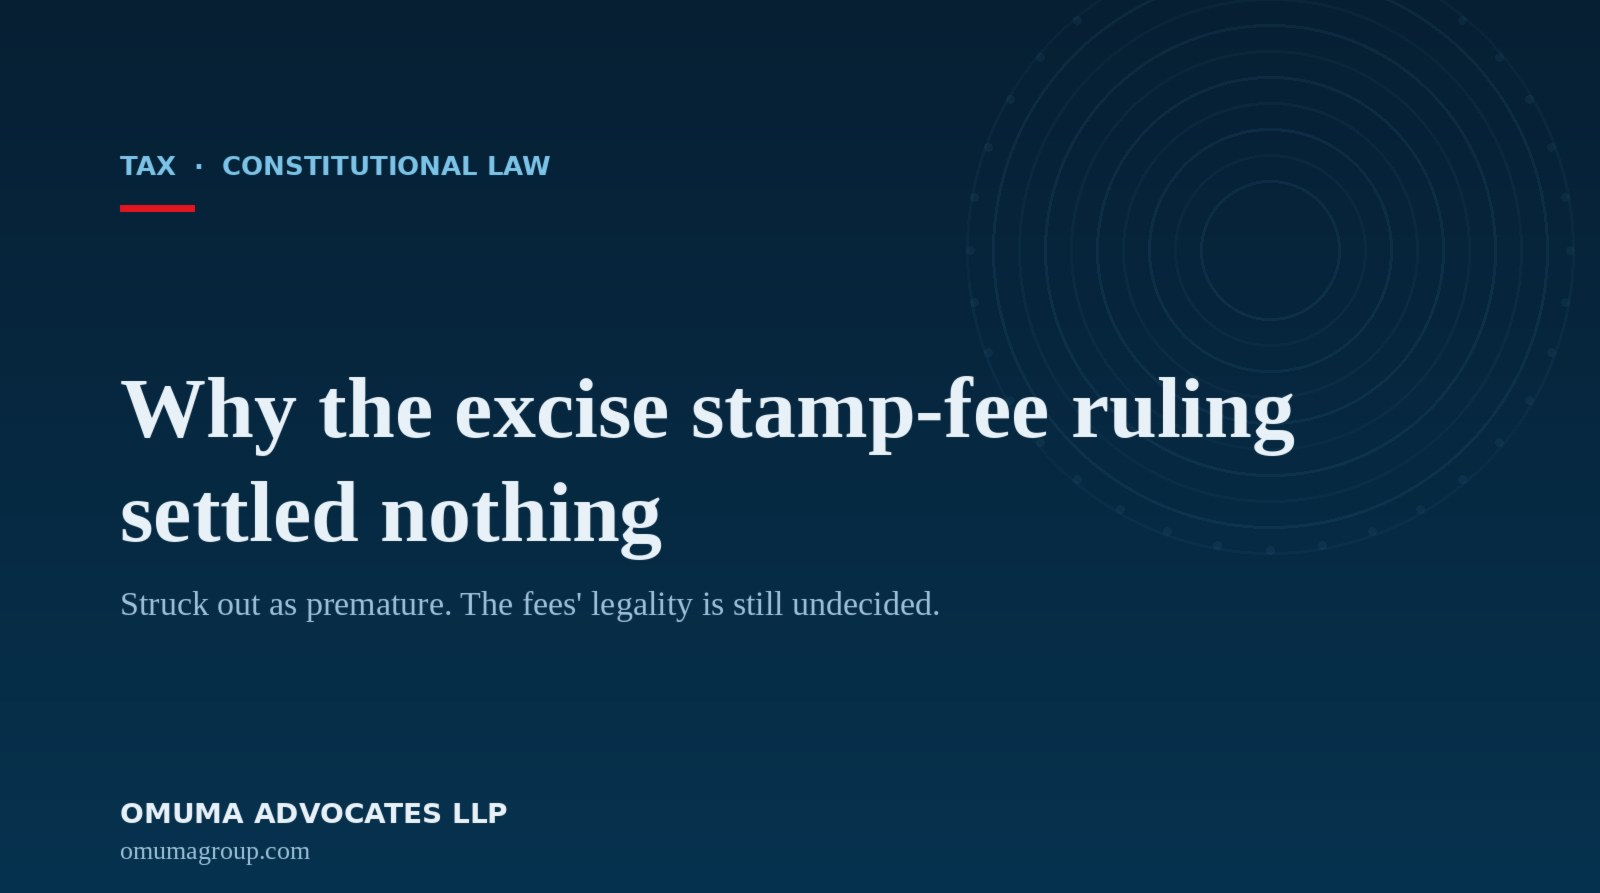
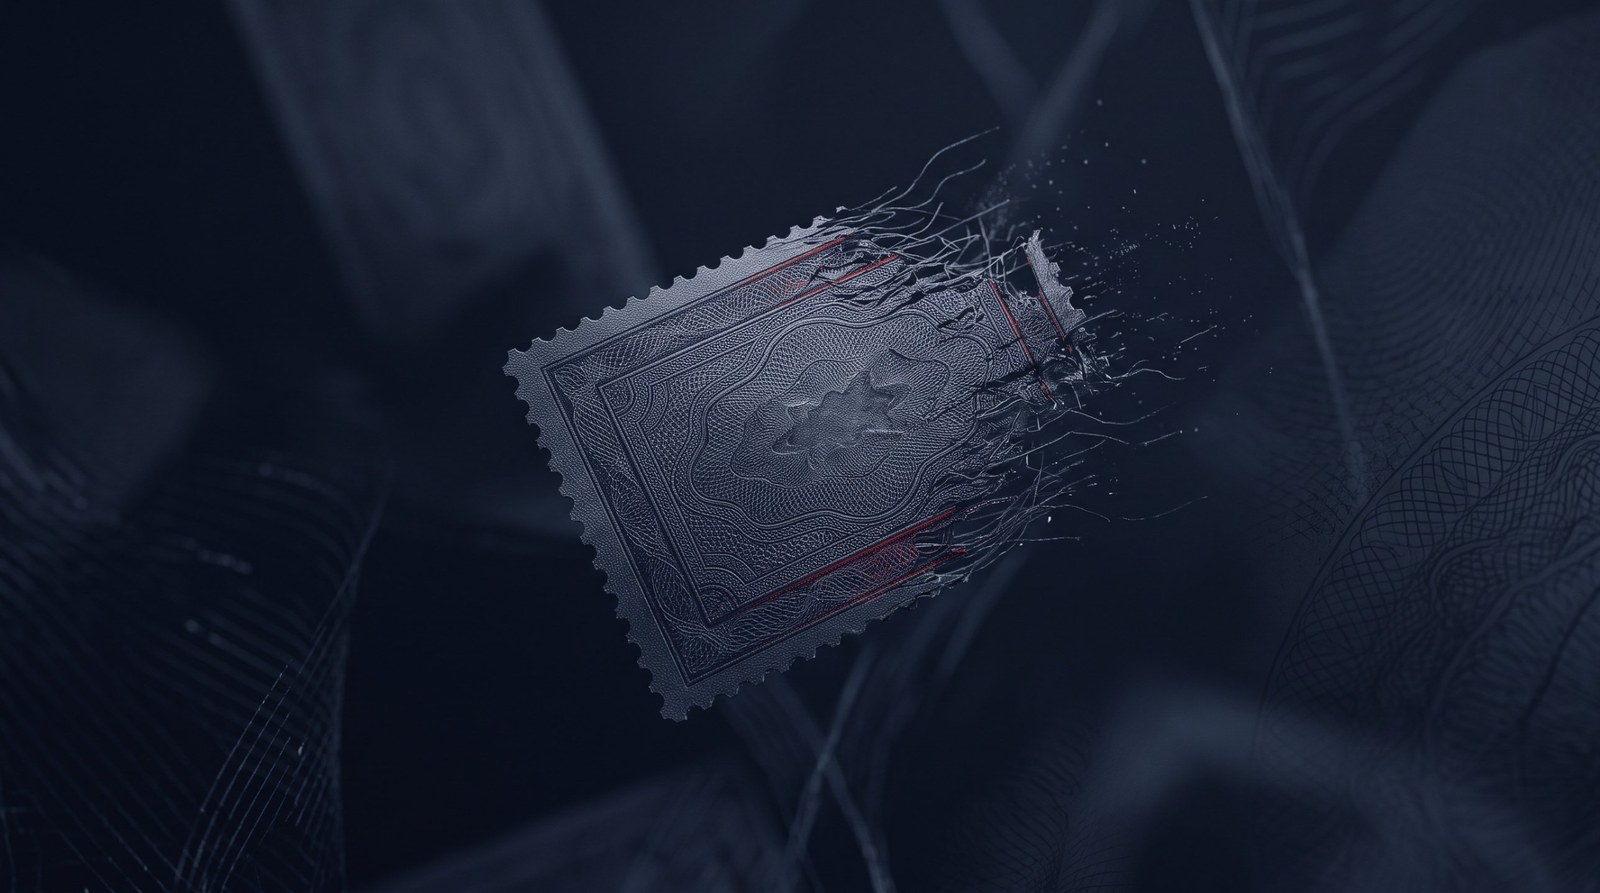
Set the final excise stamp-fee article hero graphic
Replaces the placeholder with Mark's Gemini image (a security revenue stamp
dissolving into fine guilloche lines on navy, echoing the article's point that
the ruling settled nothing), sized to 1600x893. Updates the hero and share
image alt text to describe the actual image.

Claude-Session: https://claude.ai/code/session_012CZkWenwpeeCJXZkaf6qQv

diff --git a/article-excise-stamp-fee-ruling.html b/article-excise-stamp-fee-ruling.html
@@ -15,7 +15,7 @@
 <meta property="og:image" content="https://omumagroup.com/assets/article-excise-stamp-fee-ruling.jpg">
 <meta property="og:image:width" content="1600">
 <meta property="og:image:height" content="893">
-<meta property="og:image:alt" content="Omuma Advocates LLP, a Nairobi law firm">
+<meta property="og:image:alt" content="A security revenue stamp dissolving into fine guilloche lines on a navy field">
 <meta property="article:published_time" content="2026-11-01">
 <meta property="article:modified_time" content="2026-11-01">
 <meta property="article:publisher" content="https://omumagroup.com/">
@@ -127,7 +127,7 @@
   <section class="section">
     <div class="container">
       <article class="article">
-        <figure class="article-hero"><img src="assets/article-excise-stamp-fee-ruling.jpg" alt="Excise duty stamps on bottles beside a gavel and a copy of the Kenya Gazette" width="1600" height="893"></figure>
+        <figure class="article-hero"><img src="assets/article-excise-stamp-fee-ruling.jpg" alt="A security revenue stamp dissolving into fine guilloche lines on a navy field" width="1600" height="893"></figure>
         <p class="meta"><a href="news.html" style="color:inherit;text-decoration:none">News &amp; Events</a> &middot; Tax &middot; Constitutional law &middot; 1 November 2026</p>
         <h1>Why the excise stamp-fee ruling settled nothing</h1>
         <p class="standfirst">The High Court sent the Law Society's challenge back for coming too early. Whether the higher excise stamp fees are lawful is still an open question.</p>
